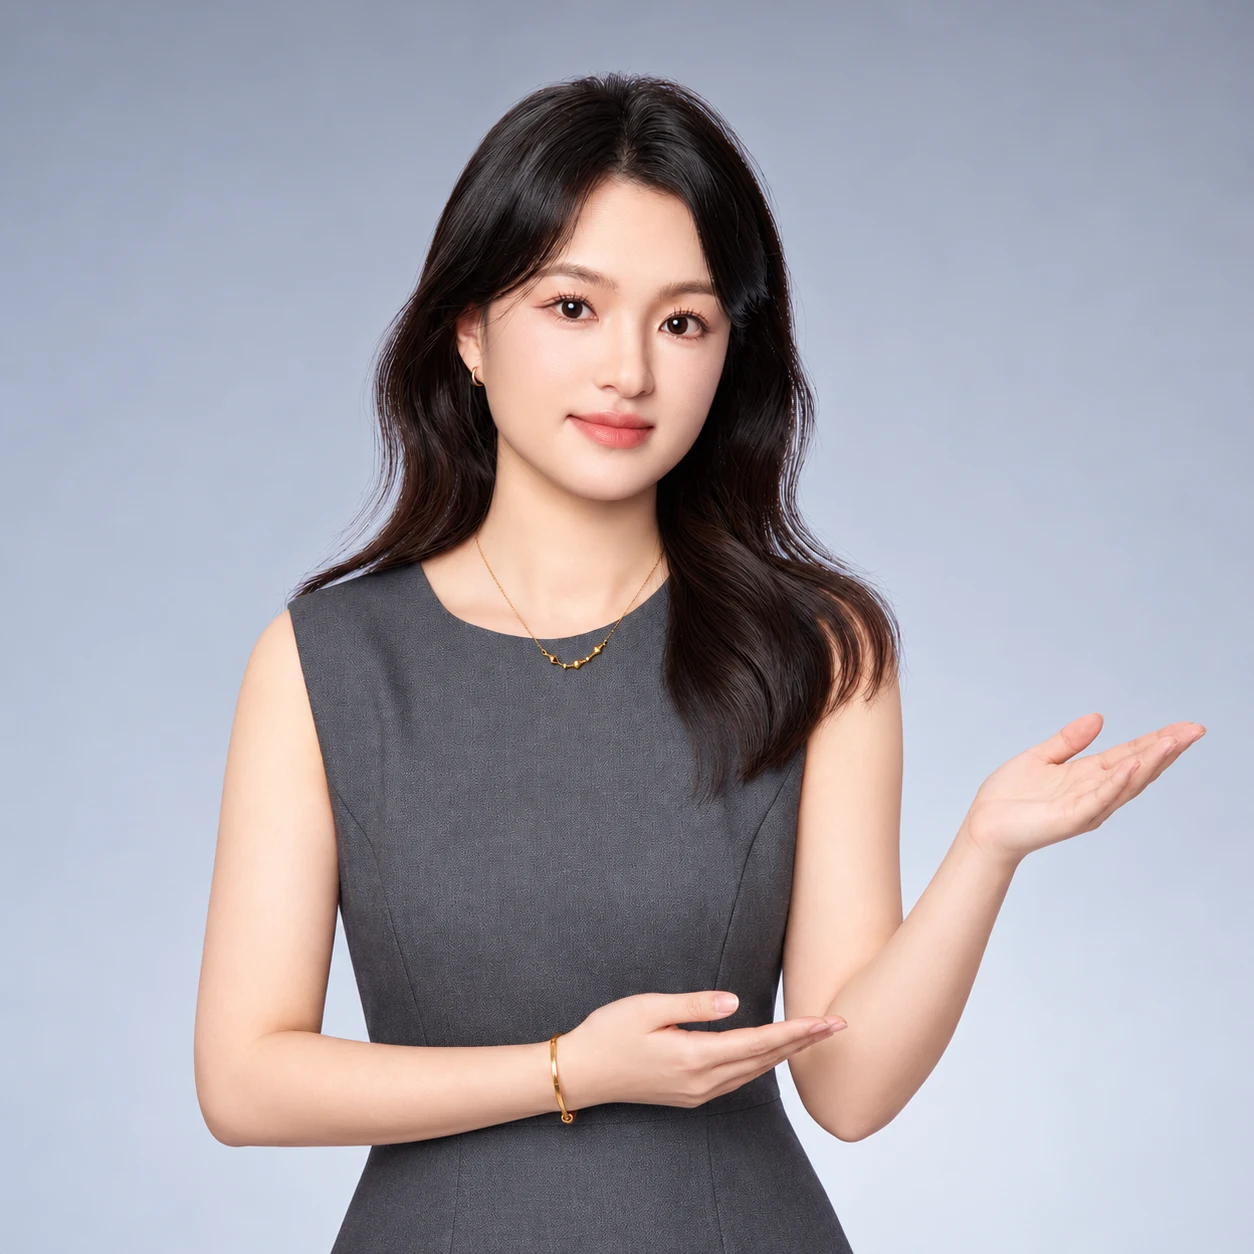
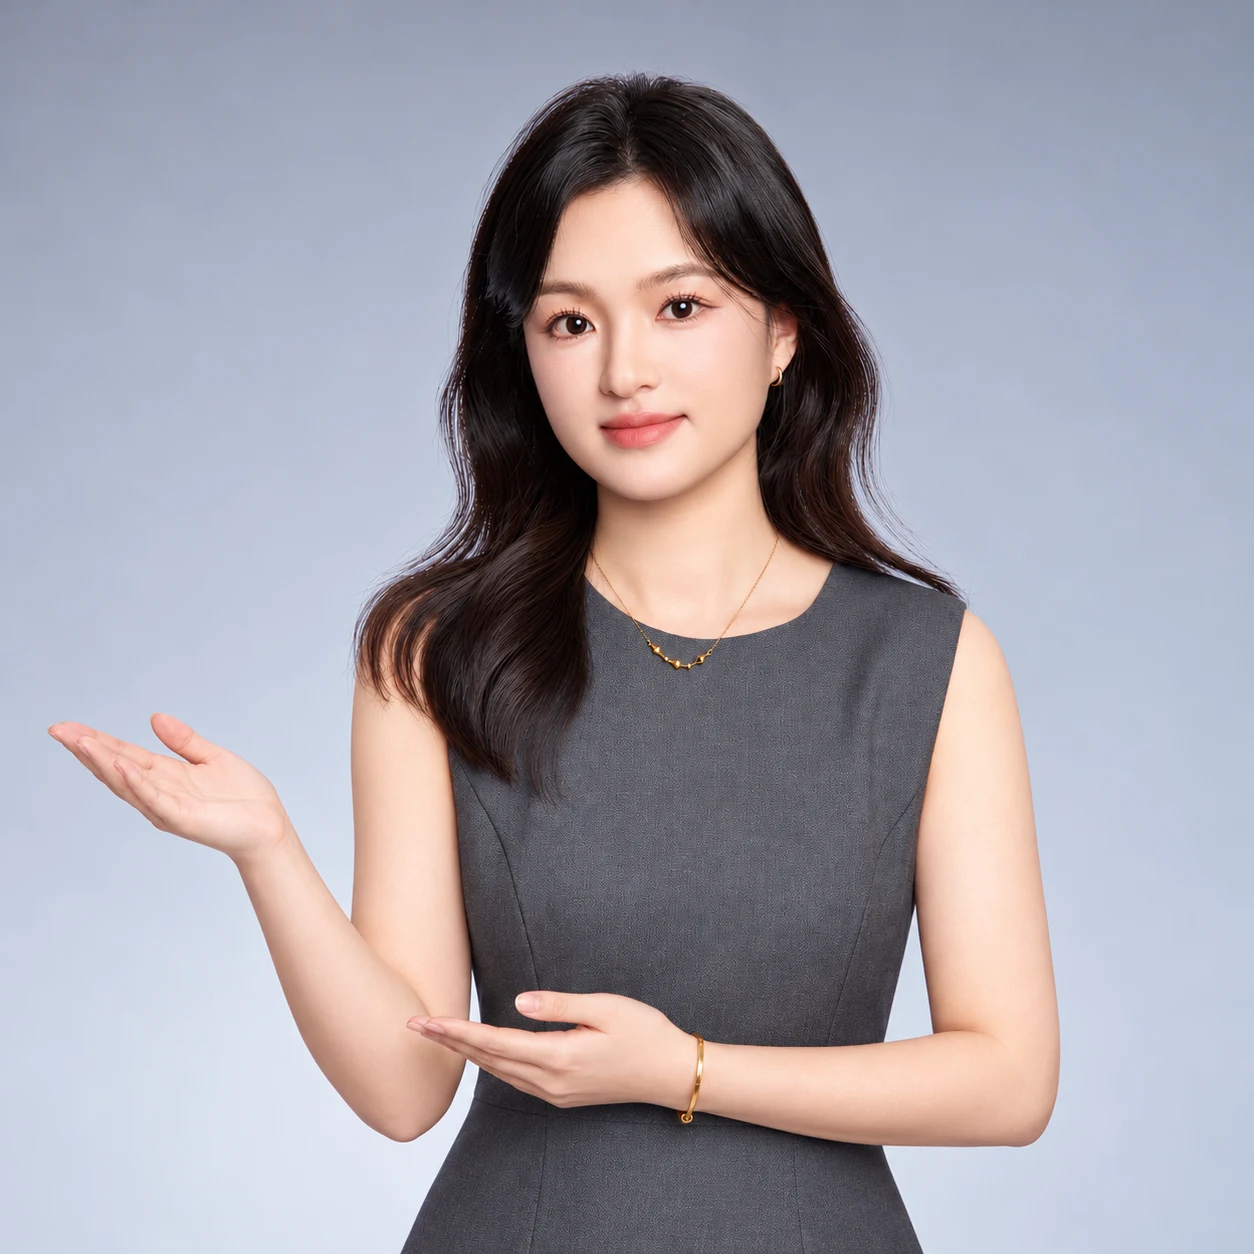
联系页：人像与联系卡左右对调、两卡等高、服务时间改为周一至周五

diff --git a/app/contact/page.tsx b/app/contact/page.tsx
@@ -39,15 +39,15 @@ export default function ContactPage() {
 
       {/* ── 推荐联系 ── */}
       <section>
-        <div className="mx-auto grid max-w-7xl gap-10 px-6 py-14 md:py-20 lg:grid-cols-2 lg:items-start">
+        <div className="mx-auto grid max-w-7xl gap-10 px-6 py-14 md:py-20 lg:grid-cols-2">
           {/* 人像 */}
-          <div className="relative aspect-square overflow-hidden rounded-card-lg border border-brand-line bg-brand-card shadow-card">
+          <div className="relative aspect-square overflow-hidden rounded-card-lg border border-brand-line bg-brand-card shadow-card lg:order-2 lg:aspect-auto">
             <Image
               src="/images/contact/du-nannan-contact.webp"
               alt={`${advisor.name} · ${advisor.title}`}
               fill
               sizes="(min-width: 1024px) 600px, 100vw"
-              className="object-cover"
+              className="object-cover object-left"
             />
             <div className="absolute inset-x-0 bottom-0 bg-gradient-to-t from-[#0b1210] via-[#0b1210]/72 to-transparent p-7 pt-24">
               <span className="inline-flex items-center rounded-full border border-brand-gold/40 bg-brand-gold/10 px-3 py-1 text-xs font-medium text-brand-gold">
@@ -63,7 +63,7 @@ export default function ContactPage() {
           </div>
 
           {/* 联系信息 */}
-          <div className="flex flex-col rounded-card-lg border border-brand-line bg-brand-card p-7 shadow-card md:p-10">
+          <div className="flex flex-col rounded-card-lg border border-brand-line bg-brand-card p-7 shadow-card md:p-10 lg:order-1">
             <p className="text-xs font-semibold uppercase tracking-[0.12em] text-brand-gold">
               推荐联系
             </p>
@@ -117,7 +117,7 @@ export default function ContactPage() {
                 <Clock className="mt-0.5 h-4 w-4 shrink-0 text-brand-gold" />
                 <div>
                   <dt className="text-brand-muted">服务时间</dt>
-                  <dd className="mt-0.5 text-brand-ink">周一至周六 9:00 – 18:00</dd>
+                  <dd className="mt-0.5 text-brand-ink">周一至周五 9:00 – 18:00</dd>
                 </div>
               </div>
             </dl>
